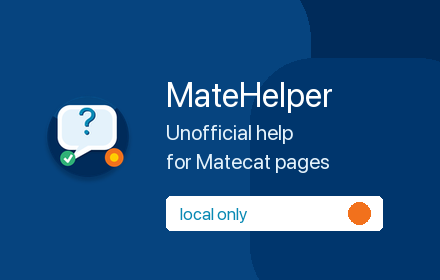
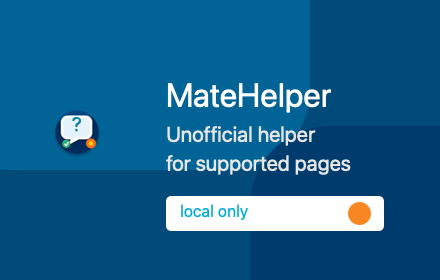
release 0.1.1

diff --git a/content.js b/content.js
@@ -21,13 +21,15 @@
     "kbd",
     "samp"
   ].join(",");
-  const QUICK_MATCH_PATTERN = /https?:\/\//i;
+  const QUICK_MATCH_PATTERN = /https?:\/\/|<a\b/i;
+  const ANCHOR_TAG_PATTERN = /<a\b(?=[^>]*\bhref\s*=)[^>]*>[\s\S]*?<\/a>/gi;
   const URL_PATTERN = /https?:\/\/[^\s<>"']+/gi;
   const HTML_ENTITY_PATTERN = /&(?:#[0-9]+|#x[0-9a-f]+|[a-z][a-z0-9]+);/i;
   const MAX_URL_LENGTH = 4096;
   const MAX_URLS_PER_TEXT_NODE = 100;
 
   const queuedRoots = new Set();
+  const enhancedAnchors = new WeakSet();
   let flushScheduled = false;
   let observerSuppressed = false;
 
@@ -183,6 +185,10 @@
     }
   }
 
+  function handleLinkClick(event) {
+    event.stopPropagation();
+  }
+
   function createAnchor(url, label) {
     const anchor = document.createElement("a");
     anchor.href = url;
@@ -190,17 +196,33 @@
     anchor.rel = "noopener noreferrer";
     anchor.textContent = label;
     anchor.setAttribute(GENERATED_LINK_ATTR, "true");
-    anchor.addEventListener("click", (event) => {
-      event.stopPropagation();
-    });
+    anchor.addEventListener("click", handleLinkClick);
     return anchor;
   }
 
-  function buildReplacementFragment(text) {
-    const fragment = document.createDocumentFragment();
+  function parseLiteralAnchor(rawAnchor) {
+    const template = document.createElement("template");
+    template.innerHTML = rawAnchor;
+
+    const anchor = template.content.querySelector("a[href]");
+    const rawHref = anchor?.getAttribute("href") || "";
+    const label = anchor?.textContent || "";
+    const normalizedUrl = normalizeUrl(rawHref);
+
+    if (!normalizedUrl || !label.trim()) {
+      return null;
+    }
+
+    return {
+      label,
+      url: normalizedUrl
+    };
+  }
+
+  function appendLinkifiedText(fragment, text, state) {
     let cursor = 0;
     let match;
-    let urlCount = 0;
+    let changed = false;
 
     URL_PATTERN.lastIndex = 0;
 
@@ -208,7 +230,7 @@
       const [fullMatch] = match;
       const start = match.index;
 
-      if (urlCount >= MAX_URLS_PER_TEXT_NODE) {
+      if (state.urlCount >= MAX_URLS_PER_TEXT_NODE) {
         break;
       }
 
@@ -222,6 +244,7 @@
 
       if (normalizedUrl) {
         fragment.append(createAnchor(normalizedUrl, originalDisplayText));
+        changed = true;
       } else {
         fragment.append(document.createTextNode(originalDisplayText));
       }
@@ -231,18 +254,89 @@
       }
 
       cursor = start + fullMatch.length;
-      urlCount += 1;
+      state.urlCount += 1;
     }
 
     if (cursor === 0) {
-      return null;
+      fragment.append(document.createTextNode(text));
+      return changed;
     }
 
     if (cursor < text.length) {
       fragment.append(document.createTextNode(text.slice(cursor)));
     }
 
-    return fragment;
+    return changed;
+  }
+
+  function buildReplacementFragment(text) {
+    const fragment = document.createDocumentFragment();
+    const state = { urlCount: 0 };
+    let cursor = 0;
+    let match;
+    let changed = false;
+
+    ANCHOR_TAG_PATTERN.lastIndex = 0;
+
+    while ((match = ANCHOR_TAG_PATTERN.exec(text)) !== null) {
+      const [fullMatch] = match;
+      const start = match.index;
+
+      if (start > cursor) {
+        changed = appendLinkifiedText(fragment, text.slice(cursor, start), state) || changed;
+      }
+
+      const parsedAnchor = parseLiteralAnchor(fullMatch);
+
+      if (parsedAnchor) {
+        fragment.append(createAnchor(parsedAnchor.url, parsedAnchor.label));
+        changed = true;
+      } else {
+        fragment.append(document.createTextNode(fullMatch));
+      }
+
+      cursor = start + fullMatch.length;
+    }
+
+    if (cursor < text.length) {
+      changed = appendLinkifiedText(fragment, text.slice(cursor), state) || changed;
+    } else if (cursor === 0) {
+      changed = appendLinkifiedText(fragment, text, state) || changed;
+    }
+
+    return changed ? fragment : null;
+  }
+
+  function enhanceExistingAnchor(anchor) {
+    if (
+      !(anchor instanceof HTMLAnchorElement) ||
+      isGeneratedLink(anchor) ||
+      enhancedAnchors.has(anchor) ||
+      isEditable(anchor)
+    ) {
+      return;
+    }
+
+    const normalizedUrl = normalizeUrl(anchor.getAttribute("href") || "");
+
+    if (!normalizedUrl) {
+      return;
+    }
+
+    anchor.addEventListener("click", handleLinkClick);
+    enhancedAnchors.add(anchor);
+  }
+
+  function enhanceExistingAnchors(root) {
+    if (!root || root.nodeType !== Node.ELEMENT_NODE) {
+      return;
+    }
+
+    if (root.matches("a[href]")) {
+      enhanceExistingAnchor(root);
+    }
+
+    root.querySelectorAll("a[href]").forEach(enhanceExistingAnchor);
   }
 
   function linkifyTextNode(node) {
@@ -273,6 +367,8 @@
       linkifyTextNode(root);
       return;
     }
+
+    enhanceExistingAnchors(root);
 
     const treeWalker = document.createTreeWalker(root, NodeFilter.SHOW_TEXT);
     const textNodes = [];

diff --git a/qa/smoke-test.html b/qa/smoke-test.html
@@ -201,6 +201,20 @@
         <p>Expected: unchanged. <a href="https://example.org/">https://example.org/</a></p>
       </section>
 
+      <section>
+        <h2>Literal Anchor Tags</h2>
+        <div>
+          <p>Expected: only 35774867 is clickable. Project number: &lt;a href="https://portal.example.com/project/35774867" target="_blank"&gt;35774867&lt;/a&gt;</p>
+          <p>Expected: only YILWB9eshgbqbRV4S1k862 is clickable. Job number: &lt;a href="https://portal.example.com/job/YILWB9eshgbqbRV4S1k862/translate" target="_blank"&gt;YILWB9eshgbqbRV4S1k862&lt;/a&gt;</p>
+          <p>Expected: only Sample File JJ0509_es-419.xliff is clickable. Original file: &lt;a href="https://files.example.com/jobs/YILWB9eshgbqbRV4S1k862/a14a51d3-d8be-4a68-bfa9-c97184d71c11.xliff" target="_blank"&gt;Sample File JJ0509_es-419.xliff&lt;/a&gt;</p>
+        </div>
+      </section>
+
+      <section>
+        <h2>Plain Job URL</h2>
+        <p>Expected: the full URL is clickable. Job URL - https://workflow.example.com/translation-jobs/0e7e46da-cc8a-4879-8561-416b5f8b0edb</p>
+      </section>
+
       <section class="warning">
         <h2>Editable Fields</h2>
         <div>

diff --git a/docs/privacy.html b/docs/privacy.html
@@ -38,19 +38,19 @@
   <body>
     <main>
       <h1>MateHelper Privacy Policy</h1>
-      <p>MateHelper is an independent, unofficial helper extension for Matecat users. It is not affiliated with, endorsed by, sponsored by, or officially connected to Matecat or Translated srl.</p>
+      <p>MateHelper is an independent, unofficial helper extension. It is not affiliated with, endorsed by, sponsored by, or officially connected to any third-party platform, customer, or vendor.</p>
       <p>MateHelper does not collect, store, sell, share, or transmit user data.</p>
-      <p>The extension runs locally in Chrome on <code>matecat.com</code> and its subdomains. It reads visible page text only to find plain-text <code>http://</code> and <code>https://</code> URLs and convert them into clickable links.</p>
+      <p>The extension runs locally in Chrome on the supported site patterns declared in the extension manifest. It reads visible page text only to find plain-text <code>http://</code> and <code>https://</code> URLs and convert them into clickable links.</p>
       <p>MateHelper does not use analytics, tracking, cookies, external servers, remote code, background network requests, or persistent storage.</p>
       <p>No page content, browsing history, credentials, personal information, or translation content leaves the user's browser.</p>
 
       <h2>Chrome Web Store Privacy Summary</h2>
       <ul>
-        <li>Single purpose: Make plain-text URLs clickable on Matecat pages.</li>
+        <li>Single purpose: Make plain-text URLs clickable on supported web pages.</li>
         <li>Data collection: No user data is collected.</li>
         <li>Data sharing: No user data is sold, shared, transferred, or sent to third parties.</li>
         <li>Local processing: Page text is processed locally in the browser only to identify URL-like text.</li>
-        <li>Permissions: The extension is limited to <code>matecat.com</code> and its subdomains and requests no additional Chrome extension permissions.</li>
+        <li>Permissions: The extension is limited to the supported site patterns declared in the extension manifest and requests no additional Chrome extension permissions.</li>
       </ul>
     </main>
   </body>

diff --git a/STORE_LISTING.md b/STORE_LISTING.md
@@ -2,19 +2,19 @@
 
 ## Short Description
 
-Unofficial helper that turns plain-text URLs on Matecat pages into clickable links.
+Unofficial helper that turns plain-text URLs on supported web pages into clickable links.
 
 ## Detailed Description
 
-MateHelper is an unofficial Chrome extension for Matecat users. It is not affiliated with, endorsed by, sponsored by, or officially connected to Matecat or Translated srl.
+MateHelper is an unofficial Chrome extension. It is not affiliated with, endorsed by, sponsored by, or officially connected to any third-party platform, customer, or vendor.
 
-MateHelper finds plain-text `http://` and `https://` URLs in Matecat page content and turns them into clickable links that open in a new tab.
+MateHelper finds plain-text `http://` and `https://` URLs in supported page content and turns them into clickable links that open in a new tab.
 
 It also watches dynamically rendered content, such as modals and popups, so links that appear after the page loads can still become clickable.
 
 MateHelper is intentionally minimal:
 
-- Runs only on `matecat.com` and its subdomains.
+- Runs only on the supported site patterns declared in the extension manifest.
 - Requests no Chrome extension permissions.
 - Does not use a background worker.
 - Does not collect, store, transmit, or analyze user data.
@@ -29,18 +29,18 @@ It processes page text locally in the browser only to detect visible plain-text 
 
 Chrome Web Store privacy tab suggestions:
 
-- Single purpose: Make plain-text URLs clickable on Matecat pages.
+- Single purpose: Make plain-text URLs clickable on supported web pages.
 - Data collection: The extension does not collect user data.
 - Data usage: Page text is processed locally in the browser only to identify plain-text URLs.
 - Data sale or transfer: No user data is sold, shared, transferred, or sent to third parties.
 - Remote code: The extension does not use remote code.
 - Analytics/tracking: The extension does not use analytics, tracking, cookies, or external servers.
-- Permission justification: The extension runs only on `matecat.com` and subdomains because it needs to inspect Matecat page text and replace plain-text URLs with clickable links. It requests no additional Chrome extension permissions.
+- Permission justification: The extension runs only on the supported site patterns declared in the manifest because it needs to inspect visible page text and replace plain-text URLs with clickable links. It requests no additional Chrome extension permissions.
 
 ## Single Purpose
 
-MateHelper's single purpose is to make plain-text URLs clickable on Matecat pages.
+MateHelper's single purpose is to make plain-text URLs clickable on supported web pages.
 
 ## Affiliation Disclaimer
 
-MateHelper is an independent, unofficial helper extension. Matecat is a trademark of its respective owner. MateHelper is not part of Matecat, Translated srl, or any official Matecat product.
+MateHelper is an independent, unofficial helper extension. MateHelper is not part of any third-party platform, customer, vendor, or official product.

diff --git a/PUBLISHING.md b/PUBLISHING.md
@@ -5,7 +5,7 @@
 - Recommended visibility: Unlisted
 - Category: Productivity
 - Language: English
-- Package to upload: `release/matehelper-0.1.0.zip`
+- Package to upload: `release/matehelper-0.1.1.zip`
 
 ## Required Images
 
@@ -45,18 +45,18 @@ If GitHub Pages is not enabled, publish `docs/privacy.html` through another stat
 
 Permission justification:
 
-`MateHelper runs only on matecat.com and subdomains because it needs to inspect Matecat page text and convert visible plain-text http:// and https:// URLs into clickable links. The extension processes this text locally in the browser and does not send, store, or collect page content.`
+`MateHelper runs only on the supported site patterns declared in the extension manifest because it needs to inspect visible page text and convert visible plain-text http:// and https:// URLs into clickable links. The extension processes this text locally in the browser and does not send, store, or collect page content.`
 
 Single purpose:
 
-`Make plain-text URLs clickable on Matecat pages.`
+`Make plain-text URLs clickable on supported web pages.`
 
 ## Final Local Checks
 
 1. Open `chrome://extensions`.
 2. Enable Developer mode.
 3. Load the unpacked project folder.
-4. Open `qa/smoke-test.html` or a Matecat page.
+4. Open `qa/smoke-test.html` or a supported web page.
 5. Confirm plain-text URLs become clickable.
 6. Confirm inputs, textareas, editable content, code blocks, and existing links are not changed.
-7. Upload `release/matehelper-0.1.0.zip` to the Chrome Web Store dashboard.
+7. Upload `release/matehelper-0.1.1.zip` to the Chrome Web Store dashboard.

diff --git a/README.md b/README.md
@@ -1,8 +1,8 @@
 # MateHelper
 
-MateHelper is an unofficial Chrome extension for Matecat users. It converts plain-text `http://` and `https://` URLs into clickable links.
+MateHelper is an unofficial Chrome extension that converts plain-text `http://` and `https://` URLs into clickable links on supported web pages.
 
-MateHelper is not affiliated with, endorsed by, sponsored by, or officially connected to Matecat or Translated srl.
+MateHelper is independent and is not affiliated with, endorsed by, sponsored by, or officially connected to any third-party platform, customer, or vendor.
 
 ## Install
 
@@ -10,7 +10,7 @@ Install MateHelper from its Chrome Web Store listing once it is published.
 
 For local development or review:
 
-1. Download and unzip `release/matehelper-0.1.0.zip`.
+1. Download and unzip `release/matehelper-0.1.1.zip`.
 2. Open `chrome://extensions`.
 3. Enable **Developer mode**.
 4. Click **Load unpacked**.
@@ -18,7 +18,7 @@ For local development or review:
 
 ## Behavior
 
-- Runs only on `matecat.com` and its subdomains.
+- Runs only on the supported site patterns declared in the extension manifest.
 - Converts plain-text URLs into links that open in a new tab.
 - Watches for dynamically rendered content, including modals and popups.
 - Skips existing links, form fields, editable content, and code blocks.
@@ -27,7 +27,7 @@ For local development or review:
 
 ## Release Package
 
-The Chrome Web Store package is `release/matehelper-0.1.0.zip`.
+The Chrome Web Store package is `release/matehelper-0.1.1.zip`.
 
 It contains only:
 

diff --git a/PRIVACY.md b/PRIVACY.md
@@ -1,10 +1,10 @@
 # MateHelper Privacy Policy
 
-MateHelper is an independent, unofficial helper extension for Matecat users. It is not affiliated with, endorsed by, sponsored by, or officially connected to Matecat or Translated srl.
+MateHelper is an independent, unofficial helper extension. It is not affiliated with, endorsed by, sponsored by, or officially connected to any third-party platform, customer, or vendor.
 
 MateHelper does not collect, store, sell, share, or transmit user data.
 
-The extension runs locally in Chrome on `matecat.com` and its subdomains. It reads visible page text only to find plain-text `http://` and `https://` URLs and convert them into clickable links.
+The extension runs locally in Chrome on the supported site patterns declared in the extension manifest. It reads visible page text only to find plain-text `http://` and `https://` URLs and convert them into clickable links.
 
 MateHelper does not use analytics, tracking, cookies, external servers, remote code, background network requests, or persistent storage.
 
@@ -12,8 +12,8 @@ No page content, browsing history, credentials, personal information, or transla
 
 ## Chrome Web Store Privacy Summary
 
-- Single purpose: Make plain-text URLs clickable on Matecat pages.
+- Single purpose: Make plain-text URLs clickable on supported web pages.
 - Data collection: No user data is collected.
 - Data sharing: No user data is sold, shared, transferred, or sent to third parties.
 - Local processing: Page text is processed locally in the browser only to identify URL-like text.
-- Permissions: The extension is limited to `matecat.com` and its subdomains and requests no additional Chrome extension permissions.
+- Permissions: The extension is limited to the supported site patterns declared in the extension manifest and requests no additional Chrome extension permissions.